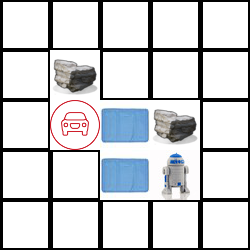
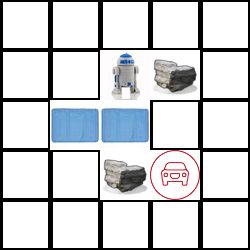
Fixed state update bug

Changed region(s): [[0.196, 0.196, 0.812, 0.812], [0.784, 0.644, 0.812, 0.756]]

diff --git a/GenericSearch.py b/GenericSearch.py
@@ -8,13 +8,8 @@ import tracking as tracker
 def Search(problem, strategy, visualize, gui):
     global nodes
     global visitedStates
-    global rockCount
     visitedStates = []
     nodes = queue.Queue()
-    '''
-    rockCount = 0
-    rockCount = np.count_nonzero(grid==1)
-    '''
     rootNode = SearchNode.createNode(SearchNode.State(problem.initialState.x, problem.initialState.y, problem.initialState.grid, problem.initialState.max), 0, 0, None, None)
     nodes.put(rootNode)
     while nodes.empty() == False:
@@ -23,17 +18,11 @@ def Search(problem, strategy, visualize, gui):
         node = nodes.get()
         if visualize == True:
             v.refresh(node.state, gui)
-        '''
-        if np.count_nonzero(node.state[2]==1) != rockCount:
-            nodes = queue.Queue()
-            rockCount = np.count_nonzero(node.state[2]==1)
-            nodes.put(node)
-            continue;
-        '''
         if problem.goalTestFunction(node.state): #GOAL
             return node
         childNodes = node.expand(problem.operators)
         for node in childNodes:
+            print(tracker.stateExist(node.state,visitedStates))
             if (tracker.stateExist(node.state,visitedStates)==False):
                 newNodes.put(node)
                 visitedStates.append(node.state)

diff --git a/index.py b/index.py
@@ -3,12 +3,6 @@ import GridGenerator
 import SearchNode
 import GenericSearch
 
-class State():
-    def __init__(self, x, y ,grid, max):
-        self.x = x
-        self.y = y
-        self.grid = grid
-        self.max = max
 
 
 def run(gui):
@@ -16,7 +10,7 @@ def run(gui):
         for x in range(len(grid)):
             for y in range(len(grid)):
                 if grid[x][y] == 2:
-                     initialState = State(x, y, grid, grid.max())
+                     initialState = SearchNode.State(x, y, grid, grid.max())
 
         operators = ['Up', 'Down', 'Left', 'Right']
         def goalTestFunction(state):
@@ -25,7 +19,7 @@ def run(gui):
 
         problem = SearchProblem.createSearchProblem(initialState, operators, goalTestFunction)
 
-        result_node = GenericSearch.Search(problem, "DFS", True, gui);
+        result_node = GenericSearch.Search(problem, "BFS", True, gui);
 
         if result_node != None:
             path = []

diff --git a/SearchNode.py b/SearchNode.py
@@ -18,7 +18,7 @@ class SearchNode():
         childNodes = []
         for operator in operators:
             newState = nextState(self.state, operator);
-            newNode = SearchNode(self.state, self.cost+1, self.depth+1, self, operator)
+            newNode = SearchNode(newState, self.cost+1, self.depth+1, self, operator)
             childNodes.append(newNode)
         return childNodes
 
